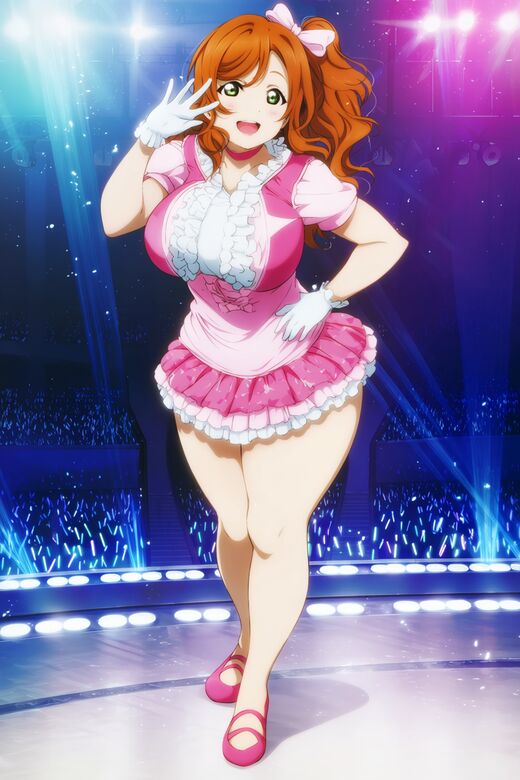
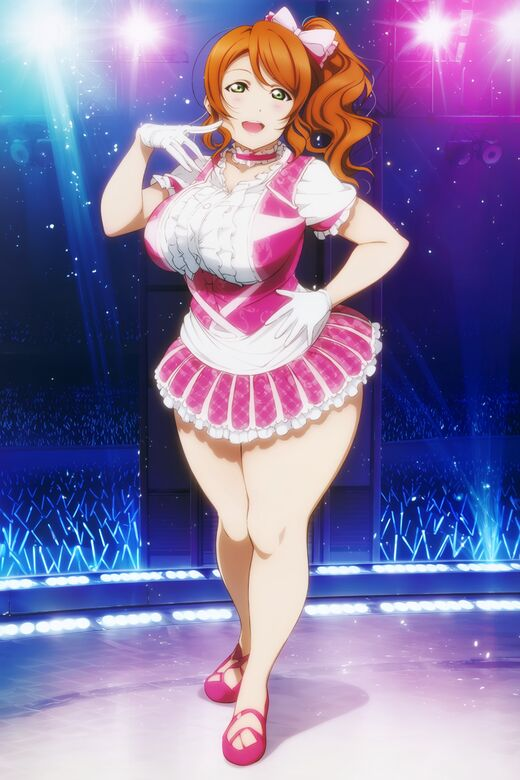
Guide: headless drawings explained with face comparison, new drawing showcase, healthier petite and tall

diff --git a/docs/guide/index.html b/docs/guide/index.html
@@ -354,16 +354,22 @@ The style still comes from the prompt, and the outfit and background from your t
   </tbody>
 </table></div>
 
-<h3>Why the drawing fills its frame</h3>
-<p>The drawing also decides how big she is in the picture. A small figure with lots of empty space around it gives a
-small face, and a small face loses the big Love Live eyes. That's why every drawing fills its frame from head to feet,
-and why each body type also comes as a <b>closer</b> version (thighs up) for the biggest faces:</p>
-<div class="strip c4">
-  <figure><img src="img/frame_small.jpg" alt="Small figure drawing result"><figcaption><b>Small figure</b> in the drawing: small face, stiff pose</figcaption></figure>
-  <figure><img src="img/frame_full.jpg" alt="Fill-frame drawing result"><figcaption><b>Fills the frame</b>: bigger face, natural pose</figcaption></figure>
-  <figure><img src="img/frame_cowboy.jpg" alt="Cowboy drawing result"><figcaption><b>Closer</b> (thighs up): the biggest eyes</figcaption></figure>
-  <figure class="ctl"><img src="img/ctl_curvy_cowboy.jpg" alt="The closer curvy drawing"><figcaption>the "curvy, closer" drawing</figcaption></figure>
+<h3>Why the drawings have no heads</h3>
+<p>The adapter copies everything in the drawing, including the face. A drawn face pulls her face toward the drawing's
+face style: narrower, with the drawing's bangs and head tilt, instead of the round Love Live face. So every drawing has
+its head painted out. The body and pose still come from the drawing; the face and hair come only from your prompt.
+(The two jumping drawings keep their heads, because their arms are raised above them.)</p>
+<div class="strip c5">
+  <figure class="ctl"><img src="img/hl_drawing_old.jpg" alt="Drawing with a face"><figcaption>a drawing <b>with</b> a face</figcaption></figure>
+  <figure><img src="img/hl_face_old.jpg" alt="Face from a drawing with a face"><figcaption>her face takes on the drawing's face</figcaption></figure>
+  <figure class="ctl"><img src="img/ctl_curvy_cowboy.jpg" alt="Headless drawing"><figcaption>the same drawing, <b>head painted out</b></figcaption></figure>
+  <figure><img src="img/hl_face_new.jpg" alt="Face from a headless drawing"><figcaption>the Love Live face is back</figcaption></figure>
+  <figure><img src="img/hl_face_words.jpg" alt="Face from words only"><figcaption>for comparison: words only, no drawing</figcaption></figure>
 </div>
+<p>Each body type also comes as a <b>closer</b> drawing (thighs up), for bigger faces and eyes. The drawings fill
+their frame from neck to feet: a small figure in lots of empty space would make her small in the picture, and a small
+face loses the big Love Live eyes.</p>
+<figure style="max-width:260px"><img src="img/hl_result.jpg" alt="Curvy, closer drawing result"><figcaption>"curvy, closer"</figcaption></figure>
 
 <h3>How strongly to follow the drawing</h3>
 <div class="diagram" role="img" aria-label="Of the 30 steps, the body drawing steers the first 21 (70%), at strength 0.6; the last 9 steps are left free for details.">

diff --git a/CLAUDE.md b/CLAUDE.md
@@ -115,13 +115,17 @@ exactly what they will see and what to press.
   kit author's reference batch. Curvy comes young (signature style) or grown-up (`mature female` + the `ll_tv` style:
   older face, fuller figure). Athletic: `athletic, toned, slim, small waist` with `muscular, muscular female, biceps` in
   the body's negative (a `neg` field in presets) so no six-pack; never `abs` or `(toned:1.3)`. Use a **drawing** when
-  the pose must be exact, the words don't reach the body (petite is weak in words), or a character must keep the same
+  the pose must be exact, the words don't reach the body (petite in words is gentle: `(petite:1.3), short, small breasts`; heavier weights or `skinny` look starved), or a character must keep the same
   body across pictures. The guide's section 5 shows both side by side with their limits.
 - **Body drawing details:** a grey drawing of a body (`kit/controls/`, picked in the Studio) goes through the
   **LLLite "any-test" adapter** at strength 0.6, active for the first 70% of the steps. It copies the proportions and
   pose. The style still comes from the prompt, and the background and clothes from the scene tags. Keep matching body tags in the
   prompt too. Higher strength copies the drawing's outfit and stiffness; lower gives the prompt more say. Without a
   drawing, poses are freer but body types other than chibi/curvy/tall follow the tags only loosely (petite is weak).
+  **Drawings have no head**: a drawn face pulls her face toward the drawing's face (narrower, its bangs and tilt), even
+  with the drawing released at 40% of the steps (tested), so the head band is painted out in the background grey
+  (`make-body` does it; `--head-cut`). Raised-arm poses (the jumps) keep their heads. Check every new drawing: no
+  face may be left.
   **The figure must fill the drawing** (head near the top edge, feet near the bottom): a small figure with lots of
   white space makes a small face with small eyes, which loses the Love Live look. The `_cowboy` drawings (thighs up)
   give the biggest faces.
